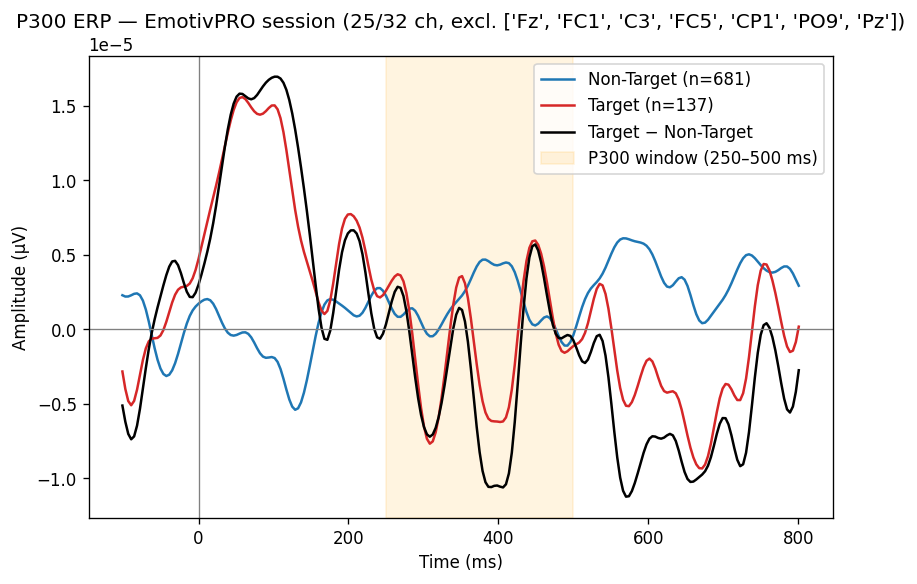
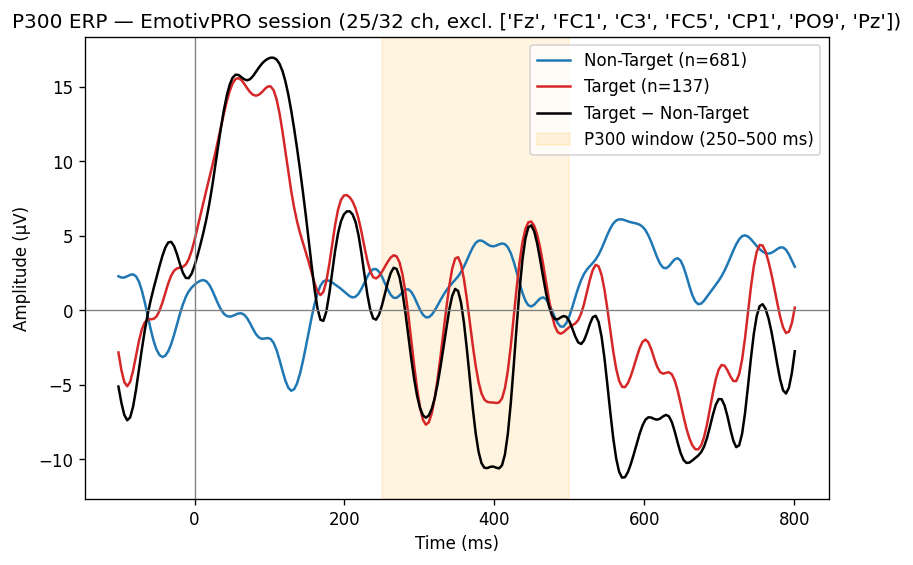
Fix volts/uV unit bug in decode_emotivpro.py; add xDAWN AUC permutation test
decode_emotivpro.py: MNE stores EEG internally in volts after reading the
EDF (which is in uV), but the plotting, printed peak, and eeg.csv export
never converted back, so real ~15uV P300 amplitudes displayed as ~1.5e-5
and the "P300 detected!" threshold check was comparing against the wrong
unit. Added a VOLTS_TO_UV=1e6 conversion at each of those three points.

pool_sessions.py: added a second, more sensitive permutation test based on
cross-validated xDAWN+tangent-space+logistic-regression decoder AUC (vs.
label-shuffled AUC), alongside the existing channel-averaged peak-amplitude
test. Also fixed load_and_epoch()'s missing baseline correction, which was
inflating the peak test's null variance.

Changed region(s): [[0.0, 0.0, 0.9814, 0.9929], [0.0, 0.3611, 0.0307, 0.6018], [0.7054, 0.7221, 0.736, 0.7522]]

diff --git a/p300-speller-multidevice/pool_sessions.py b/p300-speller-multidevice/pool_sessions.py
@@ -1,7 +1,7 @@
 """
 Pool multiple recorded P300 sessions together for more statistical power
 than any single session gives you (150 target trials/session is often not
-enough to tell a real P300 apart from noise -- see the permutation test at
+enough to tell a real P300 apart from noise -- see the permutation tests at
 the bottom of this file).
 
 Channels flagged as noisy (find_bad_channels, same heuristic as
@@ -9,19 +9,38 @@ visualize_p300.py) in ANY of the pooled sessions are excluded from ALL of
 them, since the "one channel goes haywire" issue has moved to a different
 channel nearly every session on this headset.
 
+Two permutation tests are run on the pooled data:
+  1. Peak-amplitude test  -- channel-averaged Target-NonTarget peak in the
+     P300 window vs. 1000 label-shuffles of the same statistic. Simple, but
+     throws away all but 1 timepoint and averages across channels uniformly
+     (including channels that carry little discriminative signal).
+  2. Decoder-AUC test     -- same xDAWN+Riemannian-tangent-space+logistic
+     pipeline used in decode_emotivpro.py's per-session decode, scored by
+     cross-validated ROC-AUC, vs. label-shuffles of the same cross-validated
+     AUC. Uses all channels' covariance structure instead of a plain average,
+     so it is typically far more sensitive to a real P300 than the raw peak.
+
 Usage:
     python pool_sessions.py recordings/session_001 recordings/session_002 ...
+    python pool_sessions.py recordings/session_001 recordings/session_002 \\
+        --n-perm 1000 --auc-perm 300
 
 Output (written next to the recordings/ folder of the first session given):
-    out_pooled_erp.png     Target vs Non-Target averaged ERP, pooled trials
-    (+ a permutation-test verdict printed to the console)
+    out_pooled_erp.png     Target vs Non-Target averaged ERP + both permutation
+                            test histograms
+    (+ both permutation-test verdicts printed to the console)
 """
+import argparse
 import os
-import sys
 
 import matplotlib.pyplot as plt
 import mne
 import numpy as np
+from pyriemann.estimation import XdawnCovariances
+from pyriemann.tangentspace import TangentSpace
+from sklearn.linear_model import LogisticRegression
+from sklearn.model_selection import StratifiedKFold, cross_val_score
+from sklearn.pipeline import make_pipeline
 
 from visualize_p300 import (BAND, P300_WINDOW, TMAX, TMIN, find_bad_channels,
                              load_session)
@@ -86,7 +105,42 @@ def permutation_test(data, is_target, window_mask, n_perm=1000, seed=0):
     return real_diff, real_peak, null_peaks, p_value
 
 
-def main(session_dirs):
+def _cv_auc(X, y, n_splits=5, seed=0):
+    """Cross-validated ROC-AUC of the xDAWN + tangent-space + logistic-
+    regression pipeline (same architecture as decode_emotivpro.py's decode()),
+    scored out-of-fold so the number reflects genuine generalization, not an
+    in-sample fit."""
+    n_filters = min(4, X.shape[1])
+    clf = make_pipeline(
+        XdawnCovariances(nfilter=n_filters, estimator="oas"),
+        TangentSpace(),
+        LogisticRegression(max_iter=1000),
+    )
+    cv = StratifiedKFold(n_splits=n_splits, shuffle=True, random_state=seed)
+    scores = cross_val_score(clf, X, y, cv=cv, scoring="roc_auc")
+    return scores.mean()
+
+
+def auc_permutation_test(data, is_target, n_perm=200, seed=0, n_splits=5):
+    """Label-shuffle permutation test on cross-validated decoder AUC instead
+    of raw peak amplitude. Uses every channel's covariance structure (via
+    xDAWN) rather than a plain channel average, so it is typically much more
+    sensitive to a real but spatially-distributed P300 than the peak test."""
+    real_auc = _cv_auc(data, is_target, n_splits=n_splits, seed=seed)
+
+    rng = np.random.default_rng(seed)
+    null_aucs = np.empty(n_perm)
+    for i in range(n_perm):
+        perm = rng.permutation(is_target)
+        null_aucs[i] = _cv_auc(data, perm, n_splits=n_splits, seed=seed)
+        if (i + 1) % max(1, n_perm // 10) == 0:
+            print(f"  [auc-perm] {i + 1}/{n_perm} shuffles done", flush=True)
+
+    p_value = (null_aucs >= real_auc).mean()
+    return real_auc, null_aucs, p_value
+
+
+def main(session_dirs, n_perm=1000, auc_perm=200, seed=0):
     all_epochs, all_bad, all_is_target, ch_names_ref = [], set(), [], None
     t_common = np.linspace(TMIN, TMAX, 200)  # shared grid (seconds); rates differ per session
     for sd in session_dirs:
@@ -113,17 +167,35 @@ def main(session_dirs):
     t = t_common * 1000.0
     window_mask = (t >= P300_WINDOW[0]) & (t <= P300_WINDOW[1])
 
-    real_diff, real_peak, null_peaks, p_value = permutation_test(data, is_target, window_mask)
+    # Baseline-correct each epoch to its own pre-stimulus mean (TMIN-0ms) --
+    # load_and_epoch() builds epochs with baseline=None, so without this the
+    # band-passed-but-uncorrected signal can carry a per-epoch DC offset that
+    # both the peak test and the xDAWN covariance test are sensitive to.
+    baseline_mask = t <= 0
+    data = data - data[..., baseline_mask].mean(axis=-1, keepdims=True)
+
+    real_diff, real_peak, null_peaks, p_value = permutation_test(
+        data, is_target, window_mask, n_perm=n_perm, seed=seed)
     tgt_m = data[is_target == 1].mean(0).mean(0)
     ntgt_m = data[is_target == 0].mean(0).mean(0)
 
     print(f"\n[result] REAL Target-NonTarget peak in P300 window: {real_peak:.1f}")
-    print(f"[result] null distribution (1000 label-shuffles): "
+    print(f"[result] null distribution ({n_perm} label-shuffles): "
           f"mean={null_peaks.mean():.1f}  std={null_peaks.std():.1f}")
-    print(f"[result] p-value = {p_value:.4f}  "
+    print(f"[result] peak-test p-value = {p_value:.4f}  "
           f"({'SIGNIFICANT at p<0.05' if p_value < 0.05 else 'not significant'})")
 
-    fig, axes = plt.subplots(1, 2, figsize=(14, 5))
+    print(f"\n[auc-perm] running xDAWN+tangent-space decoder AUC permutation "
+          f"test ({auc_perm} shuffles, this is slower than the peak test)...")
+    real_auc, null_aucs, auc_p_value = auc_permutation_test(
+        data, is_target, n_perm=auc_perm, seed=seed)
+    print(f"[result] REAL cross-validated decoder AUC: {real_auc:.3f}")
+    print(f"[result] null AUC distribution ({auc_perm} label-shuffles): "
+          f"mean={null_aucs.mean():.3f}  std={null_aucs.std():.3f}")
+    print(f"[result] AUC-test p-value = {auc_p_value:.4f}  "
+          f"({'SIGNIFICANT at p<0.05' if auc_p_value < 0.05 else 'not significant'})")
+
+    fig, axes = plt.subplots(1, 3, figsize=(20, 5))
     ax = axes[0]
     ax.plot(t, ntgt_m, label=f"Non-Target (n={(is_target == 0).sum()})", color="tab:blue")
     ax.plot(t, tgt_m, label=f"Target (n={is_target.sum()})", color="tab:red")
@@ -141,8 +213,17 @@ def main(session_dirs):
     ax.hist(null_peaks, bins=40, color="gray", alpha=0.7, label="null (label-shuffled)")
     ax.axvline(real_peak, color="red", lw=2, label=f"REAL peak ({real_peak:.0f})")
     ax.set_xlabel("P300-window peak amplitude")
-    ax.set_ylabel("count (out of 1000 shuffles)")
-    ax.set_title(f"Permutation test  p={p_value:.4f}")
+    ax.set_ylabel(f"count (out of {n_perm} shuffles)")
+    ax.set_title(f"Peak permutation test  p={p_value:.4f}")
+    ax.legend()
+
+    ax = axes[2]
+    ax.hist(null_aucs, bins=30, color="gray", alpha=0.7, label="null (label-shuffled)")
+    ax.axvline(real_auc, color="red", lw=2, label=f"REAL AUC ({real_auc:.3f})")
+    ax.axvline(0.5, color="gray", ls="--", lw=1, label="chance (0.5)")
+    ax.set_xlabel("Cross-validated decoder ROC-AUC")
+    ax.set_ylabel(f"count (out of {auc_perm} shuffles)")
+    ax.set_title(f"xDAWN decoder AUC permutation test  p={auc_p_value:.4f}")
     ax.legend()
 
     fig.tight_layout()
@@ -152,6 +233,16 @@ def main(session_dirs):
 
 
 if __name__ == "__main__":
-    if len(sys.argv) < 2:
-        raise SystemExit("usage: python pool_sessions.py <session_dir> [<session_dir> ...]")
-    main(sys.argv[1:])
+    ap = argparse.ArgumentParser(
+        description="Pool P300 sessions and test for a significant P300 "
+                     "(peak-amplitude test + xDAWN decoder AUC test)."
+    )
+    ap.add_argument("session_dirs", nargs="+", help="recordings/session_NNN/ folders to pool")
+    ap.add_argument("--n-perm", type=int, default=1000,
+                     help="label-shuffles for the peak-amplitude test (default: 1000)")
+    ap.add_argument("--auc-perm", type=int, default=200,
+                     help="label-shuffles for the AUC test -- slower, each shuffle "
+                          "refits a 5-fold cross-validated xDAWN decoder (default: 200)")
+    ap.add_argument("--seed", type=int, default=0)
+    args = ap.parse_args()
+    main(args.session_dirs, n_perm=args.n_perm, auc_perm=args.auc_perm, seed=args.seed)

diff --git a/p300-speller-multidevice/decode_emotivpro.py b/p300-speller-multidevice/decode_emotivpro.py
@@ -54,6 +54,7 @@ TMIN        = -0.1              # epoch start (s)
 TMAX        =  0.8              # epoch end (s)
 P300_WINDOW = (250, 500)        # ms — expected P300 peak window
 GRID = ["ABCDEF", "GHIJKL", "MNOPQR", "STUVWX", "YZ1234", "56789_"]
+VOLTS_TO_UV = 1e6                # MNE stores EEG in volts; convert back for display/export
 
 
 def code_pair_to_char(row_code, col_code):
@@ -283,8 +284,8 @@ def plot_erp(epochs, session_dir, bad_channels):
     good_idx = [i for i, c in enumerate(ch_names) if c not in bad_channels]
     t = epochs.times * 1000
 
-    tgt  = epochs["Target"].get_data().mean(axis=0)
-    ntgt = epochs["Non-Target"].get_data().mean(axis=0)
+    tgt  = epochs["Target"].get_data().mean(axis=0) * VOLTS_TO_UV
+    ntgt = epochs["Non-Target"].get_data().mean(axis=0) * VOLTS_TO_UV
     tgt_m, ntgt_m = tgt[good_idx].mean(0), ntgt[good_idx].mean(0)
     diff = tgt_m - ntgt_m
 
@@ -318,8 +319,8 @@ def plot_erp(epochs, session_dir, bad_channels):
 
 def plot_per_channel_erp(epochs, session_dir, bad_channels):
     t = epochs.times * 1000
-    tgt  = epochs["Target"].get_data().mean(axis=0)
-    ntgt = epochs["Non-Target"].get_data().mean(axis=0)
+    tgt  = epochs["Target"].get_data().mean(axis=0) * VOLTS_TO_UV
+    ntgt = epochs["Non-Target"].get_data().mean(axis=0) * VOLTS_TO_UV
     n_ch = tgt.shape[0]
     ncols = 4
     nrows = int(np.ceil(n_ch / ncols))
@@ -356,7 +357,7 @@ def export_csvs(raw, eeg_utc, mrk, events, session_dir):
     markers.csv gains: lsl_timestamp column (EEG sample time nearest each flash)
     """
     # --- eeg.csv ---
-    data = raw.get_data().T          # (n_samples, n_ch)
+    data = raw.get_data().T * VOLTS_TO_UV   # (n_samples, n_ch), volts -> uV
     eeg_df = pd.DataFrame(data, columns=raw.ch_names)
     eeg_df.insert(0, "lsl_timestamp", eeg_utc)
     eeg_path = os.path.join(session_dir, "eeg.csv")
